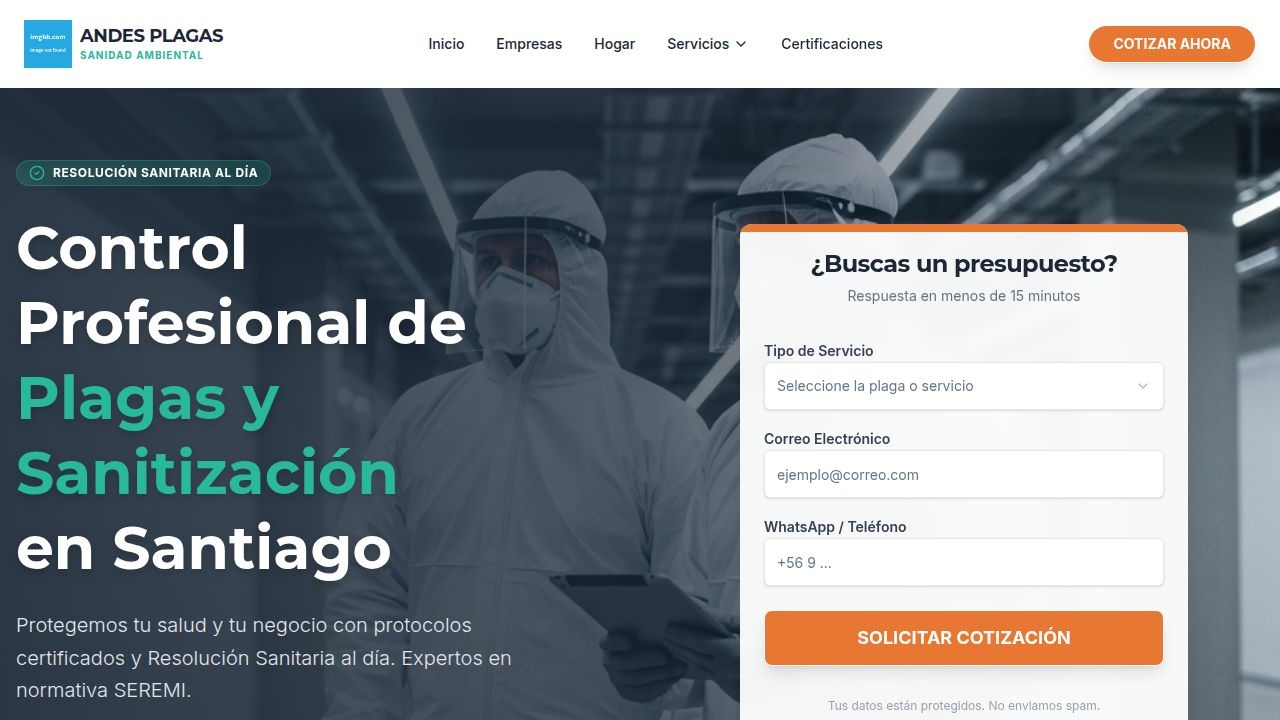
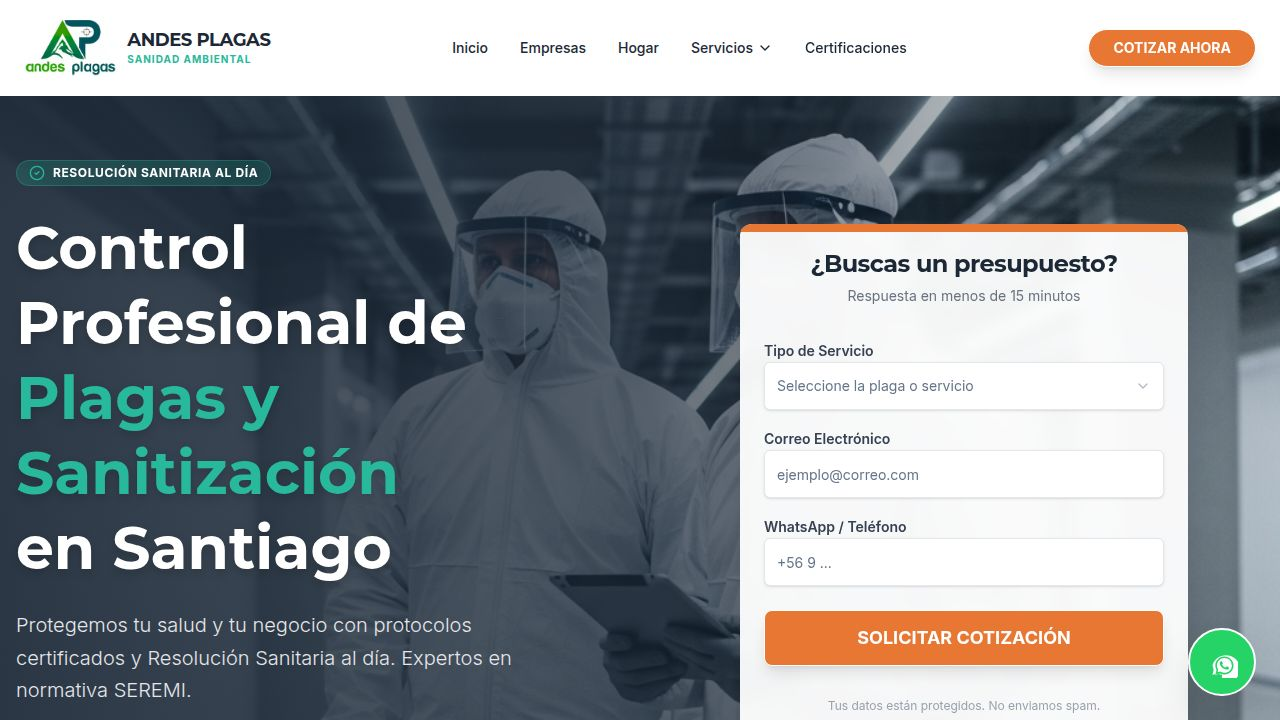
Update website navigation and add a WhatsApp chat button
Adds a floating WhatsApp chat button and updates the logo in the navbar and footer.

Replit-Commit-Author: Agent
Replit-Commit-Session-Id: cdef0bc6-3d74-45e5-8ab1-0b4f23b8f58e
Replit-Commit-Checkpoint-Type: full_checkpoint
Replit-Commit-Event-Id: 54636594-f047-46da-b161-1f6db3c24348
Replit-Commit-Screenshot-Url: https://storage.googleapis.com/screenshot-production-us-central1/36b1f49b-6cd7-4f11-af2c-186fa44c1cf6/cdef0bc6-3d74-45e5-8ab1-0b4f23b8f58e/xnqBGcn
Replit-Helium-Checkpoint-Created: true

diff --git a/client/src/components/floating-whatsapp.tsx b/client/src/components/floating-whatsapp.tsx
@@ -1,0 +1,21 @@
+export default function FloatingWhatsApp() {
+  return (
+    <a
+      href="https://wa.me/56942713144"
+      target="_blank"
+      rel="noopener noreferrer"
+      className="fixed bottom-6 right-6 z-50 bg-[#25D366] hover:bg-[#20ba59] text-white p-4 rounded-full shadow-2xl hover:scale-110 transition-all duration-300 flex items-center justify-center cursor-pointer border-2 border-white"
+      aria-label="Chat en WhatsApp"
+    >
+      <svg
+        xmlns="http://www.w3.org/2000/svg"
+        width="32"
+        height="32"
+        fill="currentColor"
+        viewBox="0 0 24 24"
+      >
+        <path d="M12.031 21.611l-3.324-.877-3.856.883.896-3.832-.888-3.356c1.196-4.52 5.568-7.551 10.155-7.551 5.761 0 10.428 4.646 10.428 10.377 0 5.73-4.667 10.377-10.428 10.377-1.077 0-2.126-.17-3.111-.476zm6.541-11.758c-1.282-1.272-2.986-1.975-4.802-1.975-3.738 0-6.779 3.023-6.779 6.742 0 1.189.313 2.353.906 3.385l-.963 3.518 3.652-.949c.995.539 2.112.822 3.262.822h.003c3.736 0 6.778-3.023 6.778-6.744 0-1.802-.705-3.493-1.993-4.773zm-4.793 10.25h-.002c-1.002 0-1.984-.267-2.842-.773l-.203-.119-2.116.55.565-2.046-.131-.208c-.556-.882-.849-1.9-.849-2.96 0-3.082 2.522-5.59 5.617-5.59 1.498 0 2.906.58 3.963 1.631a5.578 5.578 0 011.646 3.962c0 3.08-2.523 5.589-5.616 5.589zm3.085-4.18c-.169-.084-1.003-.492-1.158-.548-.155-.056-.268-.084-.381.084-.112.168-.436.548-.535.66-.098.112-.197.126-.366.042-.169-.084-.716-.261-1.365-.838-.505-.449-.846-1.004-.944-1.172-.099-.168-.01-.259.074-.343.076-.076.169-.196.253-.294.085-.098.113-.168.169-.28.056-.112.028-.21-.014-.294-.042-.084-.381-.91-.521-1.246-.136-.326-.275-.282-.381-.287-.098-.004-.21-.005-.324-.005-.112 0-.295.042-.45.21-.155.168-.591.574-.591 1.401 0 .827.605 1.626.69 1.738.084.112 1.196 1.808 2.898 2.502.405.165.722.264.969.338.407.128.778.11 1.07.067.327-.048 1.003-.406 1.144-.8.14-.393.14-.73.098-.8-.042-.07-.154-.112-.323-.196z"/>
+      </svg>
+    </a>
+  );
+}

diff --git a/client/src/components/footer.tsx b/client/src/components/footer.tsx
@@ -14,9 +14,11 @@ export default function Footer() {
           {/* Brand Column */}
           <div className="space-y-6">
             <div className="flex items-center gap-2">
-              <div className="w-10 h-10 bg-[hsl(168,64%,44%)] rounded-lg flex items-center justify-center text-white font-bold text-xl">
-                AP
-              </div>
+              <img 
+                src="https://res.cloudinary.com/dojxjnqsg/image/upload/v1773520878/f3a3b2ff-3e00-4a9c-856c-a421cc227182.png" 
+                alt="Andes Plagas Logo" 
+                className="h-14 w-auto object-contain"
+              />
               <div className="flex flex-col">
                 <span className="font-bold text-white leading-tight text-lg tracking-tight font-display">
                   ANDES PLAGAS

diff --git a/client/src/components/navbar.tsx b/client/src/components/navbar.tsx
@@ -35,9 +35,9 @@ export default function Navbar() {
         {/* Logo */}
         <Link href="/" className="flex items-center gap-2 group cursor-pointer">
             <img 
-              src="https://i.ibb.co/LdvM85z/andes-plagas-logo.png" 
+              src="https://res.cloudinary.com/dojxjnqsg/image/upload/v1773520878/f3a3b2ff-3e00-4a9c-856c-a421cc227182.png" 
               alt="Andes Plagas Logo" 
-              className="h-12 w-auto object-contain group-hover:scale-105 transition-transform"
+              className="h-14 w-auto object-contain group-hover:scale-105 transition-transform"
             />
             <div className="flex flex-col">
               <span className="font-bold text-[hsl(212,32%,16%)] leading-tight text-lg tracking-tight font-display">

diff --git a/client/src/App.tsx b/client/src/App.tsx
@@ -7,6 +7,7 @@ import Home from "@/pages/home";
 import Desratizacion from "@/pages/desratizacion";
 import Sanitizacion from "@/pages/sanitizacion";
 import Desinsectacion from "@/pages/desinsectacion";
+import FloatingWhatsApp from "@/components/floating-whatsapp";
 
 function Router() {
   return (
@@ -25,6 +26,7 @@ function App() {
     <QueryClientProvider client={queryClient}>
       <Toaster />
       <Router />
+      <FloatingWhatsApp />
     </QueryClientProvider>
   );
 }
